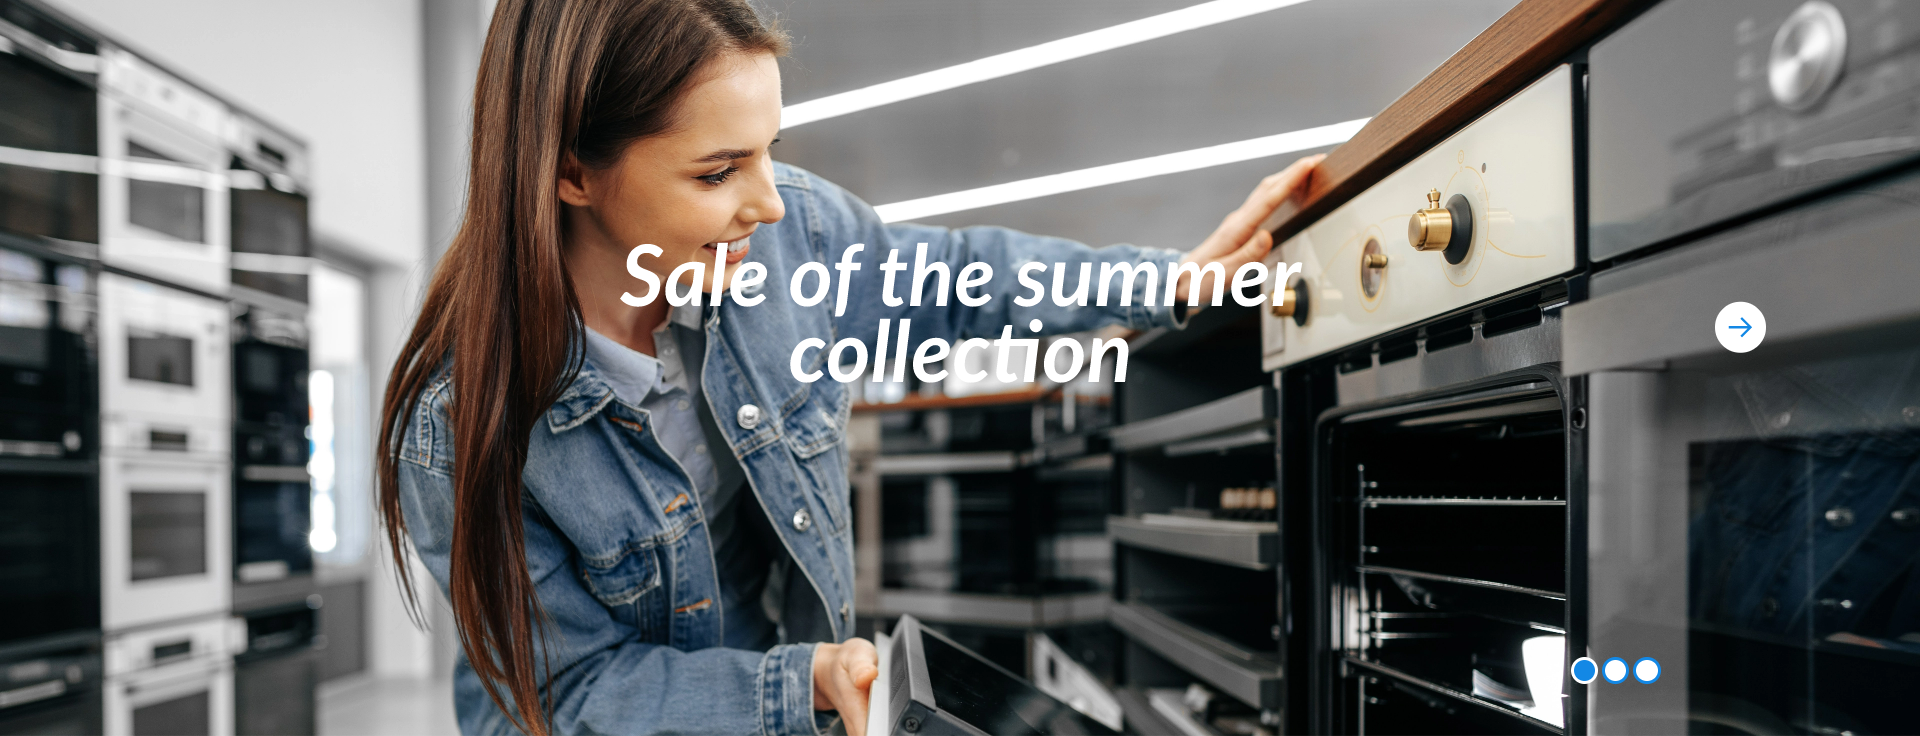
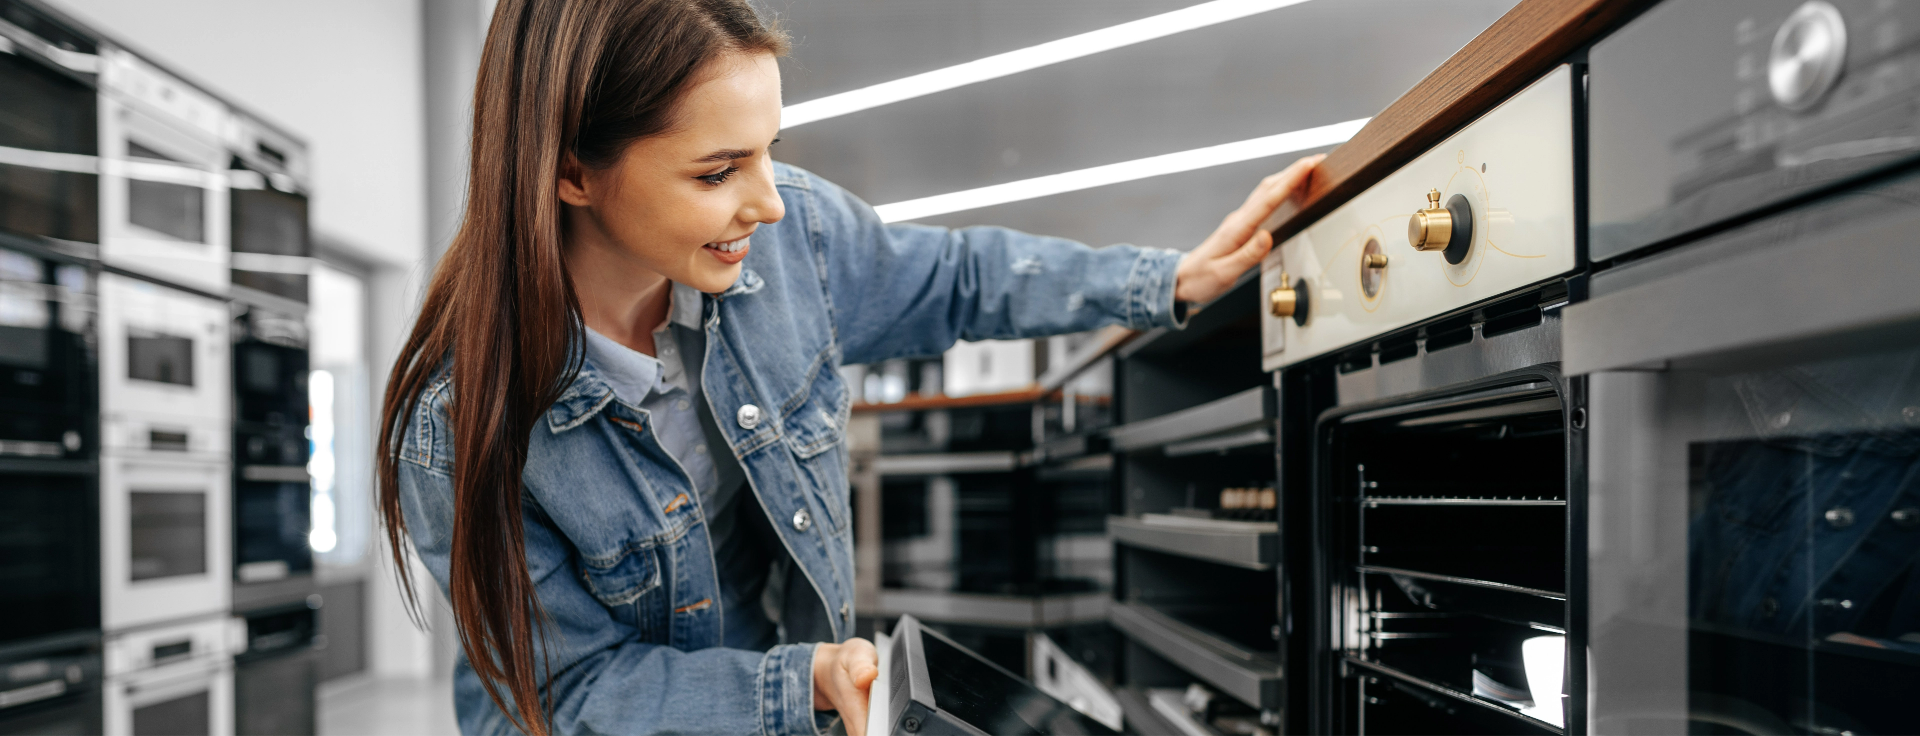
changes

Changed region(s): [[0.3125, 0.3125, 0.6875, 0.5312], [0.875, 0.4062, 0.9375, 0.4688], [0.8125, 0.875, 0.875, 0.9375]]

diff --git a/index.html b/index.html
@@ -297,20 +297,29 @@
                 class="d-block w-100"
                 alt="..."
               />
+              <div class="carousel-caption d-none d-md-block carousel-text">
+                <p>Sale of the summer collection</p>
+              </div>
             </div>
-            <div class="carousel-item">
-              <img
-                src="/Assets/images/cute-college-apparel-1533568750.png"
-                class="d-block w-100"
-                alt="..."
-              />
-            </div>
-            <div class="carousel-item">
+            <div class="carousel-item active">
               <img
                 src="/Assets/images/banner.png"
                 class="d-block w-100"
                 alt="..."
               />
+              <div class="carousel-caption d-none d-md-block carousel-text">
+                <p>Sale of the summer collection2</p>
+              </div>
+            </div>
+            <div class="carousel-item active">
+              <img
+                src="/Assets/images/banner.png"
+                class="d-block w-100"
+                alt="..."
+              />
+              <div class="carousel-caption d-none d-md-block carousel-text">
+                <p>Sale of the summer collection3</p>
+              </div>
             </div>
           </div>
           <button

diff --git a/index.css b/index.css
@@ -278,13 +278,15 @@ body {
 
     width: 100%;
 }
-.swiper-slider-card img{
+
+.swiper-slider-card img {
     width: 100%;
 }
 
 .swiper-slider-card .feature-btn-cont {
     width: 100%;
 }
+
 .swiper-slider-card .feature-btn-cont .btn-default {
     width: 100%;
 }
@@ -310,13 +312,6 @@ body {
 .about-head {
     font-size: 39px
 }
-
-
-
-
-
-
-
 
 /* swiper css */
 
@@ -355,6 +350,20 @@ body {
 
 .today-product h1 {
     margin-top: 50px;
+}
+
+.carousel-text {
+    position: absolute;
+    top: 35%;
+    left: 35%;
+    /* transform: translate(-50%, -50%); */
+    color: red;
+}
+
+.carousel-text p {
+    font-size: 85px;
+    font-style: italic;
+    font-weight: 600;
 }
 
 @media screen and (max-width: 1300px) {

diff --git a/homepage.css b/homepage.css
@@ -200,6 +200,20 @@
     padding: 0px 5px;
 }
 
+.carousel-text {
+    position: absolute;
+    top: 35%;
+    left: 35%;
+    /* transform: translate(-50%, -50%); */
+    color: red;
+}
+
+.carousel-text p {
+    font-size: 85px;
+    font-style: italic;
+    font-weight: 600;
+}
+
 @media screen and (max-width: 1300px) {
     .gap .parent-max-width {
         max-width: 1150px;

diff --git a/homepage.html b/homepage.html
@@ -294,6 +294,9 @@
                 class="d-block w-100"
                 alt="..."
               />
+              <div class="carousel-caption d-none d-md-block carousel-text">
+                <p>ELECTRONICS</p>
+              </div>
             </div>
             <div class="carousel-item">
               <img
